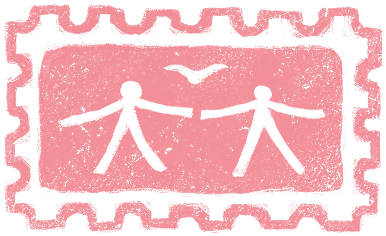
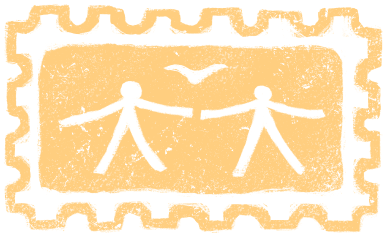
added x in the modal

diff --git a/src/components/CanvasBoard.jsx b/src/components/CanvasBoard.jsx
@@ -347,14 +347,16 @@ function CanvasBoard() {
       ctx.restore()
     }
 
-    const stampSrc = `${import.meta.env.BASE_URL}stamp.png`
+    const stampSrc = `${import.meta.env.BASE_URL}stamp2.png`
     const [frontImg, stampImg] = await Promise.all([
       loadImage(postcard.image_url),
       loadImage(stampSrc),
     ])
 
-    // Background: use the postcard image as a soft, full-bleed backdrop.
-    ctx.fillStyle = '#000000'
+    // Background: soft full-bleed blur, then tint with backdrop hue (deep navy reads as
+    // blue-black; a flat semi-transparent fill on gray blur alone looks neutral/black).
+    const backdropColor = '#0a1428'
+    ctx.fillStyle = backdropColor
     ctx.fillRect(0, 0, totalWidth, totalHeight)
     if (frontImg) {
       ctx.save()
@@ -366,12 +368,24 @@ function CanvasBoard() {
       ctx.filter = 'blur(12px)'
       ctx.drawImage(frontImg, offsetX, offsetY, coverW, coverH)
       ctx.restore()
+      ctx.save()
+      ctx.globalCompositeOperation = 'color'
+      ctx.fillStyle = backdropColor
+      ctx.fillRect(0, 0, totalWidth, totalHeight)
+      ctx.restore()
     }
 
-    // Dark overlay over the background so the cards pop.
+    // Slight deepen so the cards read clearly without washing the tint back to gray/black.
     ctx.save()
-    ctx.globalAlpha = 0.85
-    ctx.fillStyle = '#000000'
+    ctx.globalAlpha = 0.35
+    ctx.fillStyle = backdropColor
+    ctx.fillRect(0, 0, totalWidth, totalHeight)
+    ctx.restore()
+
+    // Extra dim: pull the full plate darker and closer to navy.
+    ctx.save()
+    ctx.globalAlpha = 0.42
+    ctx.fillStyle = backdropColor
     ctx.fillRect(0, 0, totalWidth, totalHeight)
     ctx.restore()
 
@@ -484,10 +498,10 @@ function CanvasBoard() {
     ctx.shadowBlur = 8
     ctx.shadowOffsetX = 4
     ctx.shadowOffsetY = 4
-    ctx.fillStyle = '#ffffff'
+    ctx.fillStyle = '#fffefb'
     ctx.fillRect(labelX, labelY, labelW, labelH)
     ctx.shadowColor = 'transparent'
-    ctx.fillStyle = '#000000'
+    ctx.fillStyle = backdropColor
     ctx.textAlign = 'center'
     ctx.textBaseline = 'middle'
     ctx.fillText(labelText, labelX + labelW / 2, labelY + labelH / 2)

diff --git a/src/components/PostcardModal.jsx b/src/components/PostcardModal.jsx
@@ -75,6 +75,20 @@ function ShareIcon() {
   )
 }
 
+function CloseIcon() {
+  return (
+    <svg width="22" height="22" viewBox="0 0 24 24" fill="none" aria-hidden>
+      <path
+        d="M6 6l12 12M18 6L6 18"
+        stroke="currentColor"
+        strokeWidth="1.75"
+        strokeLinecap="round"
+        strokeLinejoin="round"
+      />
+    </svg>
+  )
+}
+
 function PostcardModal({ postcard, onClose, onDownload, onShare }) {
   const [side, setSide] = useState('back')
 
@@ -92,6 +106,17 @@ function PostcardModal({ postcard, onClose, onDownload, onShare }) {
 
   return (
     <div className="modal-overlay" onClick={onClose}>
+      <button
+        type="button"
+        className="modal-close-btn"
+        onClick={(e) => {
+          e.stopPropagation()
+          onClose()
+        }}
+        aria-label="Close preview"
+      >
+        <CloseIcon />
+      </button>
       <div className="modal-card" onClick={(e) => e.stopPropagation()}>
         <div
           className="modal-postcard"

diff --git a/src/index.css b/src/index.css
@@ -367,6 +367,28 @@ button.ghost {
   gap: 14px;
 }
 
+.modal-close-btn {
+  position: absolute;
+  top: 20px;
+  right: 20px;
+  z-index: 50;
+  display: inline-flex;
+  align-items: center;
+  justify-content: center;
+  padding: 8px;
+  margin: 0;
+  border: 0;
+  background: transparent;
+  color: #fff;
+  cursor: pointer;
+  line-height: 0;
+}
+
+.modal-close-btn:focus-visible {
+  outline: 2px solid #fff;
+  outline-offset: 2px;
+}
+
 .modal-postcard {
   width: 100%;
   position: relative;
